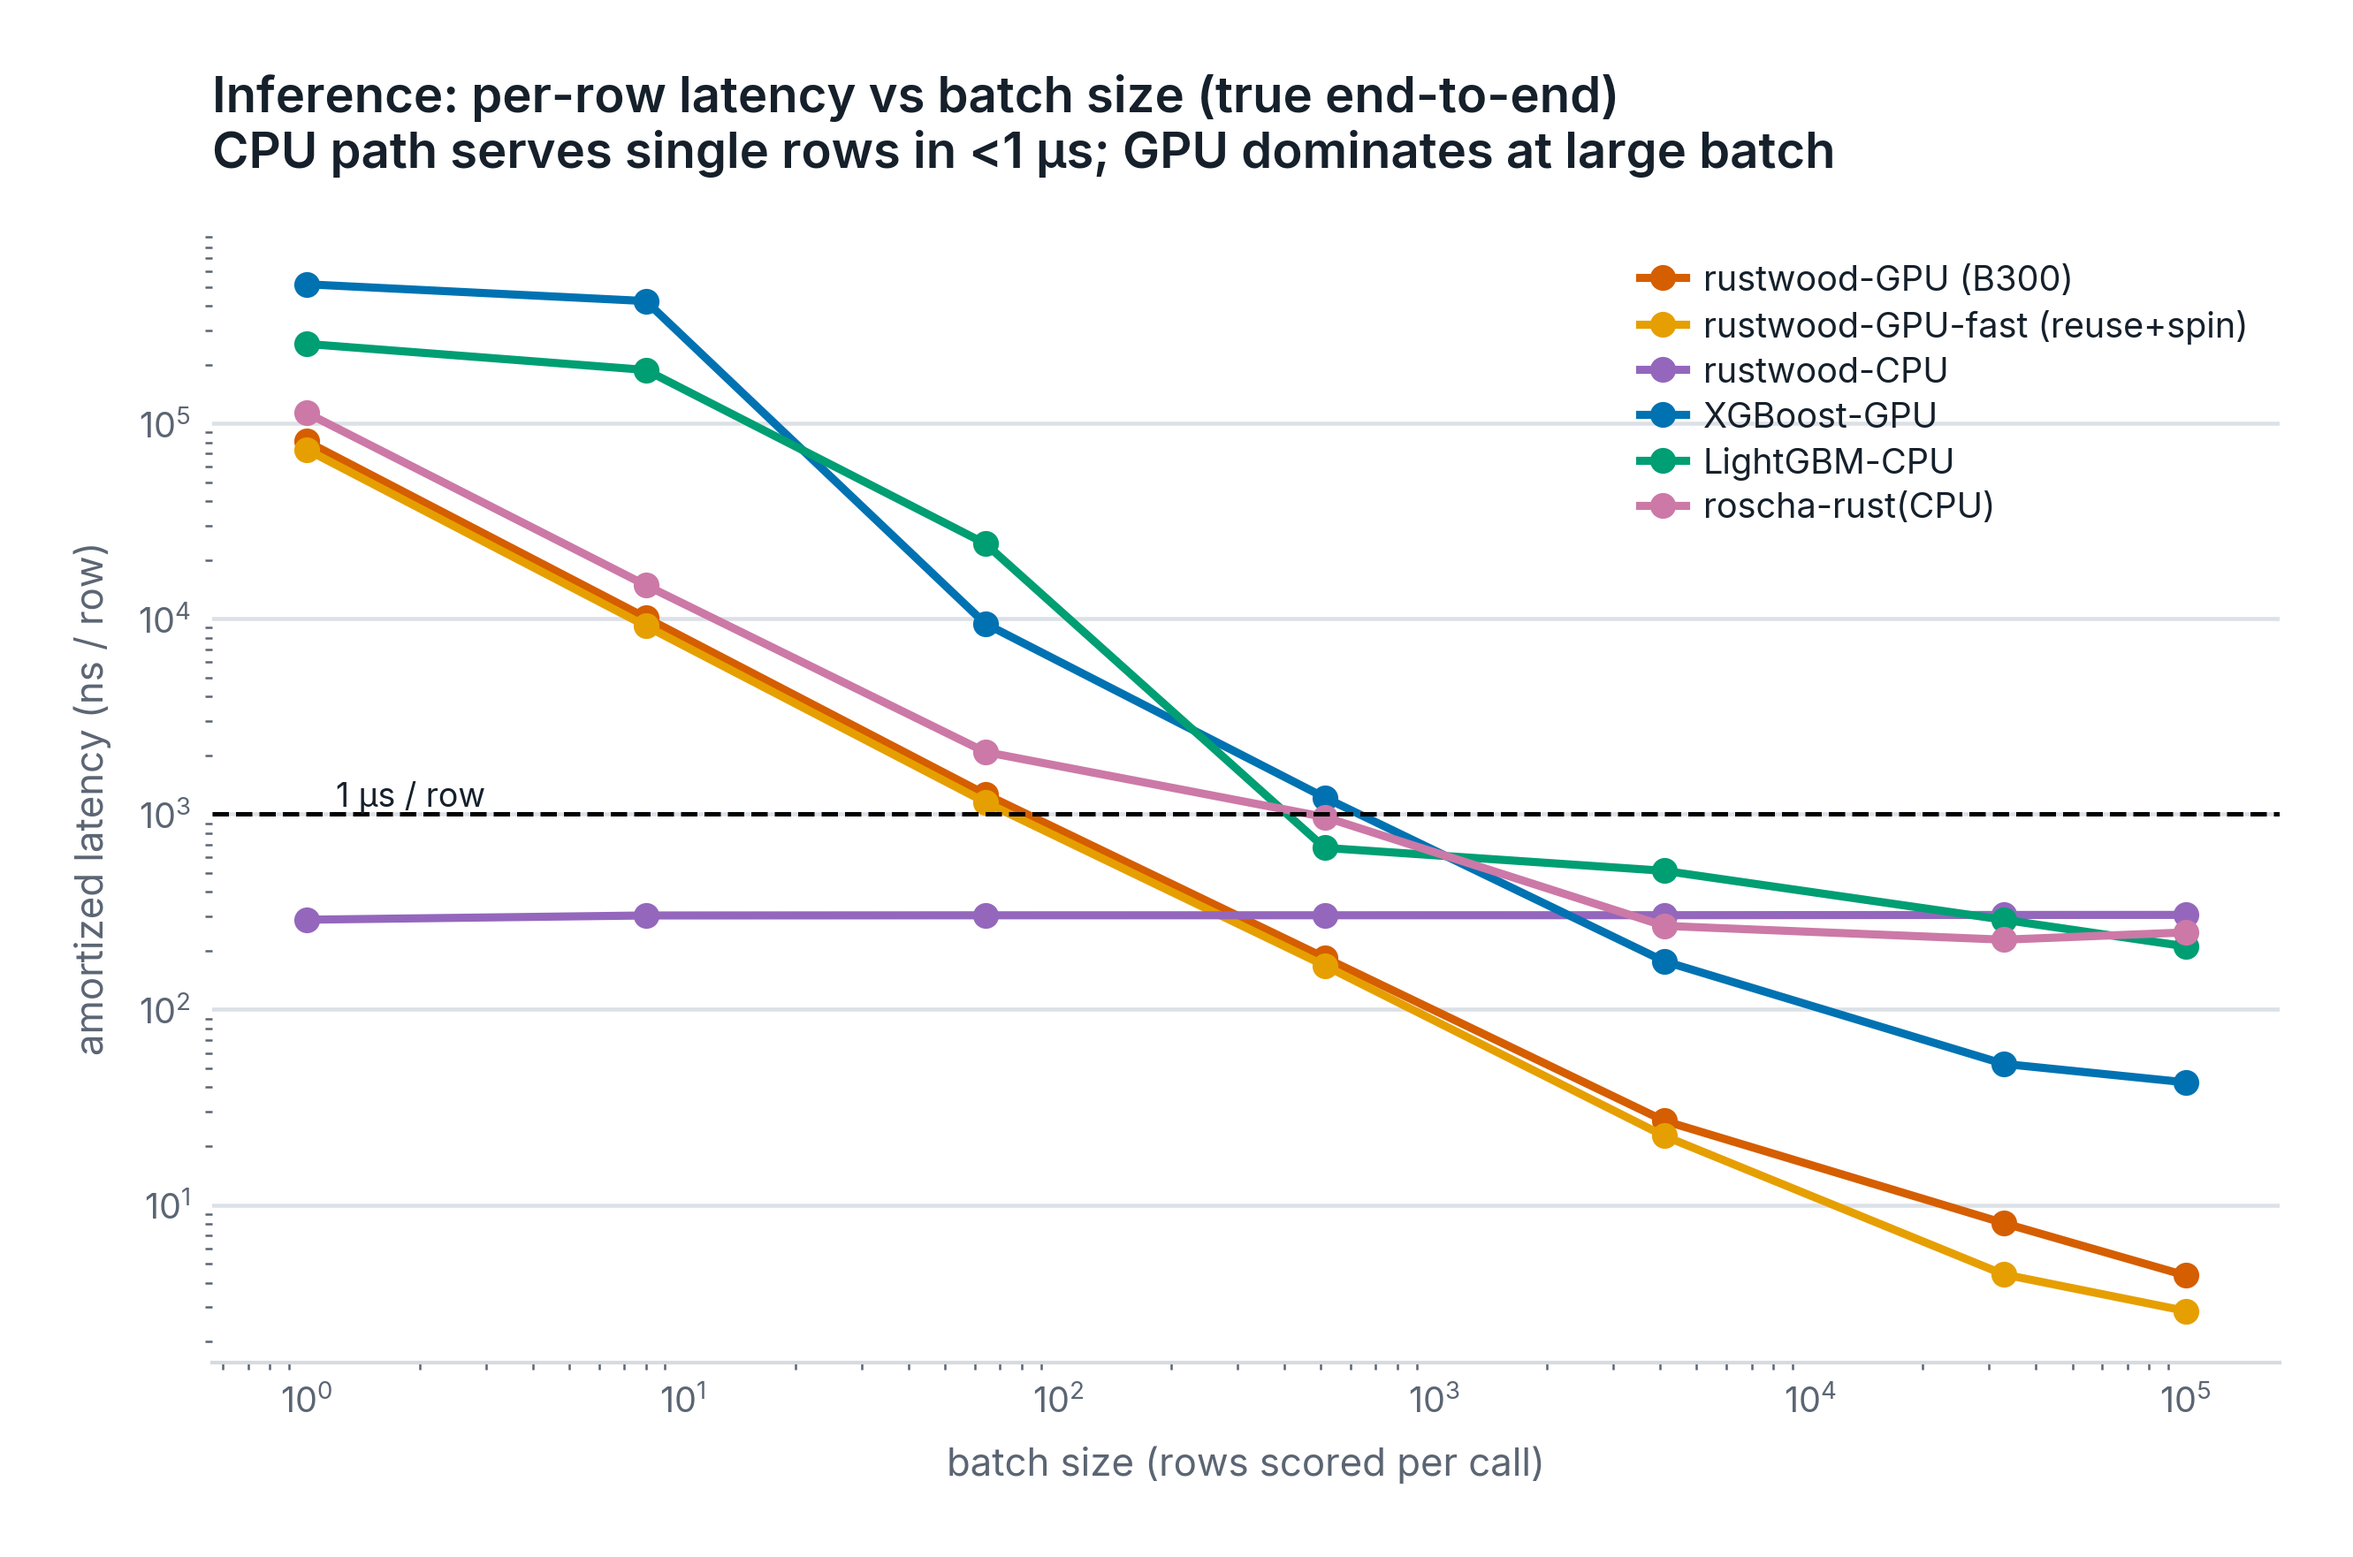
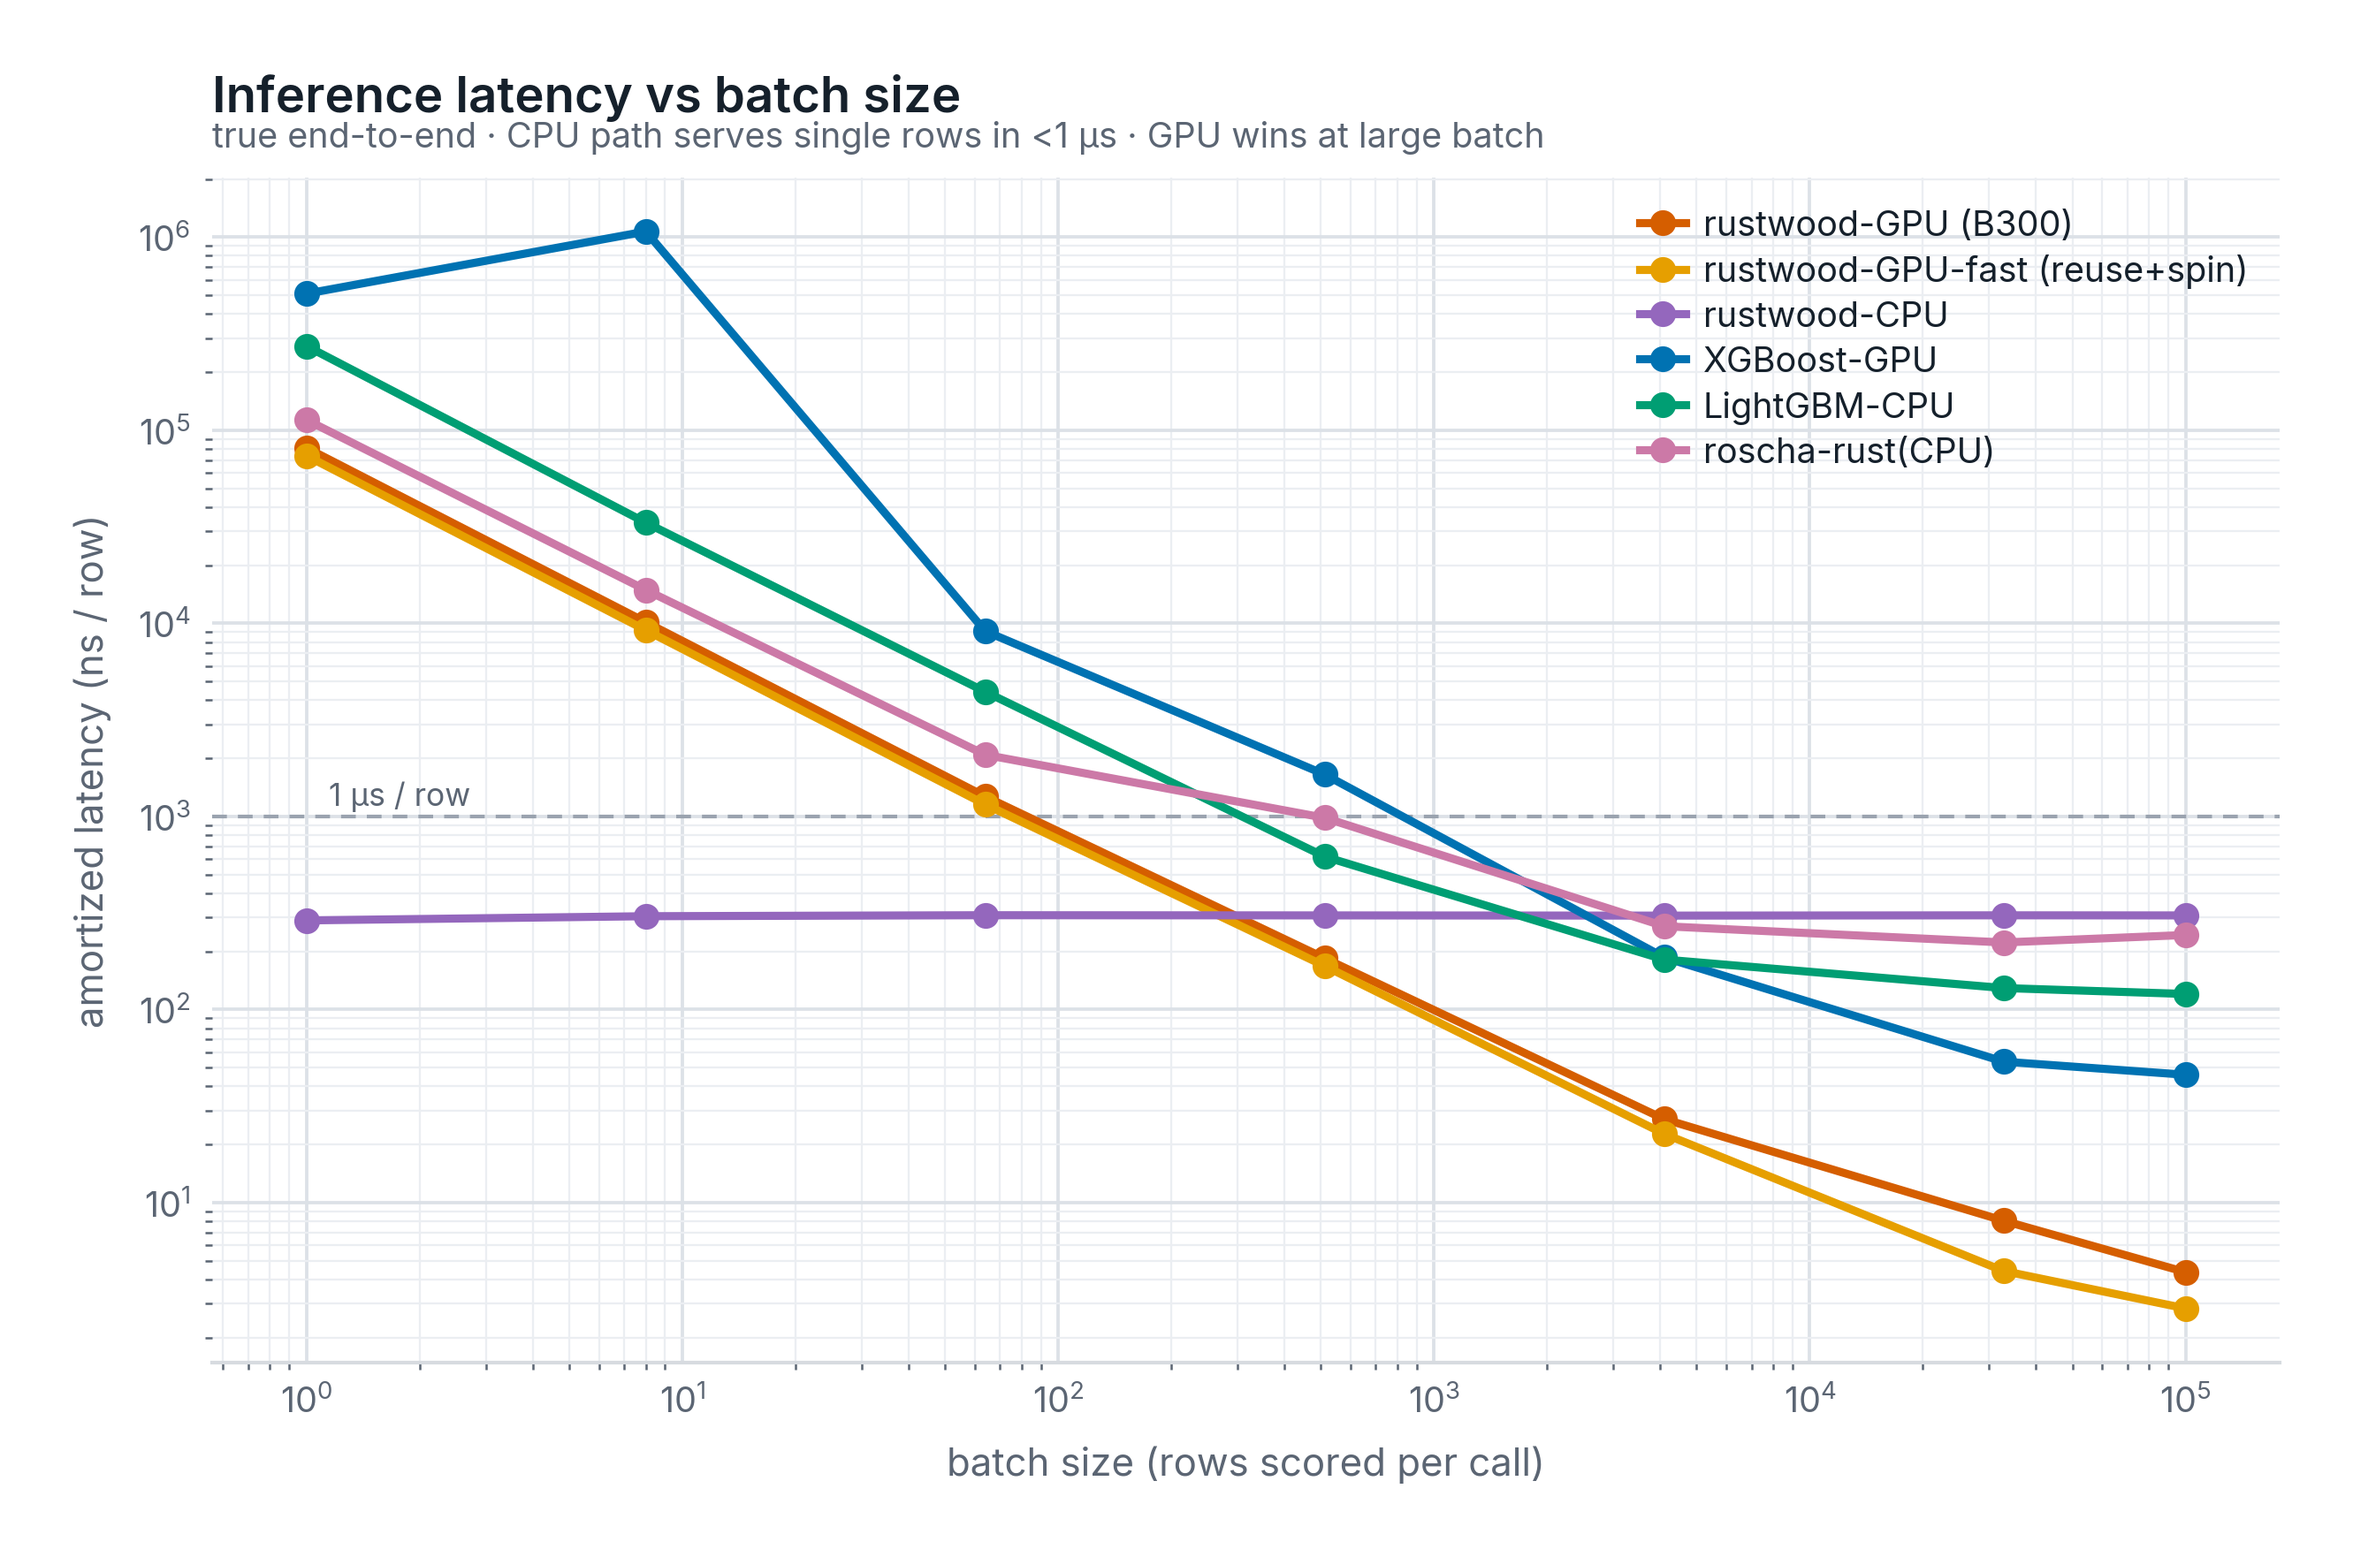
Proper log grid on log-log plots (train-time, throughput, latency)
The global style only drew major y-grid, which on a log scale is just sparse decade
lines (easy to miss). Add style.loggrid(): subtle major+minor grid on both axes, applied
to the log-log plots (train_time, infer_throughput, infer_latency per-row/per-call).
Also upgraded the latency titles to the editorial title+subtitle format and softened the
1 µs/row reference line. Figures regenerated.

diff --git a/scripts/latency_bench.py b/scripts/latency_bench.py
@@ -128,12 +128,13 @@ def main():
             xs = [b for b, _ in res]
             ys = [c / b for b, c in res]
             plt.loglog(xs, ys, "o-", color=COLORS[name], label=name, lw=2.2, ms=7)
-    plt.axhline(1000, color="k", ls="--", lw=1.2)
-    plt.text(1.2, 1100, "1 µs / row", fontsize=9)
+    plt.axhline(1000, color=style.FAINT, ls=(0, (4, 3)), lw=1.0, zorder=1)
+    plt.text(1.15, 1150, "1 µs / row", fontsize=8.5, color=style.MUTED)
     plt.xlabel("batch size (rows scored per call)")
     plt.ylabel("amortized latency (ns / row)")
-    plt.title("Inference: per-row latency vs batch size (true end-to-end)\n"
-              "CPU path serves single rows in <1 µs; GPU dominates at large batch")
+    style.title(plt.gca(), "Inference latency vs batch size",
+                "true end-to-end · CPU path serves single rows in <1 µs · GPU wins at large batch")
+    style.loggrid(plt.gca())
     plt.legend()
     plt.savefig(os.path.join(args.out, "infer_latency_perrow.png"))
     plt.close()
@@ -147,7 +148,9 @@ def main():
             plt.loglog(xs, ys, "o-", color=COLORS[name], label=name, lw=2.2, ms=7)
     plt.xlabel("batch size (rows scored per call)")
     plt.ylabel("per-call latency (µs)")
-    plt.title("Inference: per-call latency vs batch size (true end-to-end)")
+    style.title(plt.gca(), "Inference latency per call vs batch size",
+                "true end-to-end · lower is better")
+    style.loggrid(plt.gca())
     plt.legend()
     plt.savefig(os.path.join(args.out, "infer_latency_percall.png"))
     plt.close()

diff --git a/scripts/viz.py b/scripts/viz.py
@@ -147,6 +147,7 @@ def plot_train_time(results, out_png):
     plt.xlabel("training rows")
     plt.ylabel("training wall-clock (s)")
     style.title(plt.gca(), "Training time vs dataset size", "synthetic regression · 100 trees, depth 6 · log–log · lower is better")
+    style.loggrid(plt.gca())
     plt.legend()
     plt.savefig(out_png)
     plt.close()
@@ -169,6 +170,7 @@ def plot_infer(results, out_png):
     plt.xlabel("training rows")
     plt.ylabel("inference time (ns / row)")
     style.title(plt.gca(), "Inference throughput vs dataset size", "amortized per-row latency · log–log · lower is better")
+    style.loggrid(plt.gca())
     plt.legend()
     plt.savefig(out_png)
     plt.close()

diff --git a/scripts/style.py b/scripts/style.py
@@ -128,3 +128,14 @@ def legend(ax, **kw):
     kw.setdefault("frameon", False)
     kw.setdefault("loc", "best")
     return ax.legend(**kw)
+
+
+def loggrid(ax, axis="both"):
+    """Subtle major+minor grid for log (or log-log) plots, on both axes.
+
+    The global style only draws major y-grid, which on a log scale is just the decade
+    lines (sparse). This adds the in-between minor lines so log plots read clearly.
+    """
+    ax.set_axisbelow(True)
+    ax.grid(True, which="major", axis=axis, color=GRID, linewidth=0.9, zorder=0)
+    ax.grid(True, which="minor", axis=axis, color="#EBEEF2", linewidth=0.55, zorder=0)
